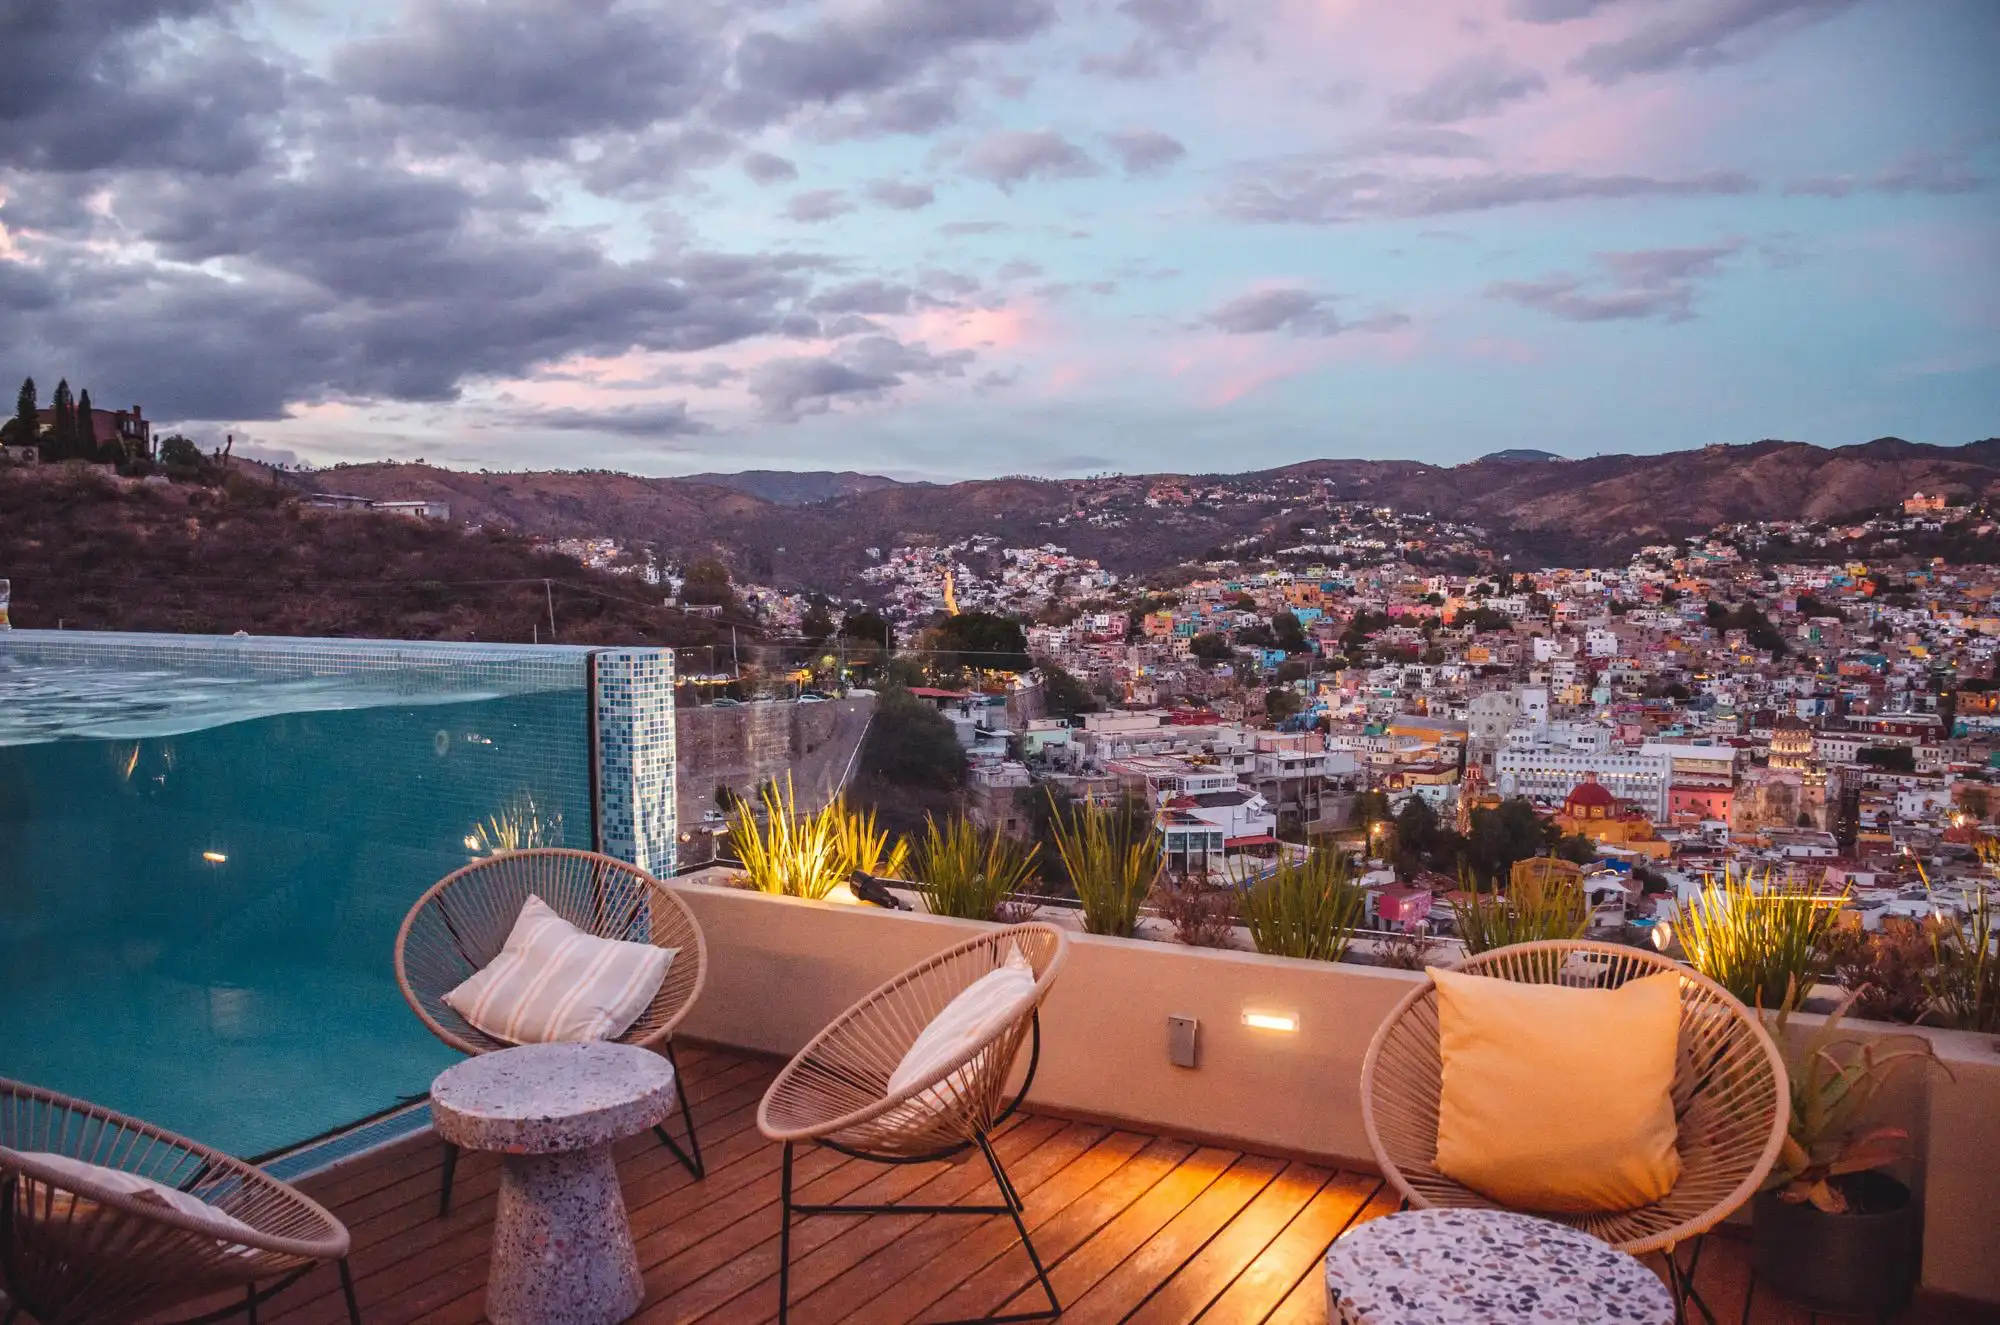
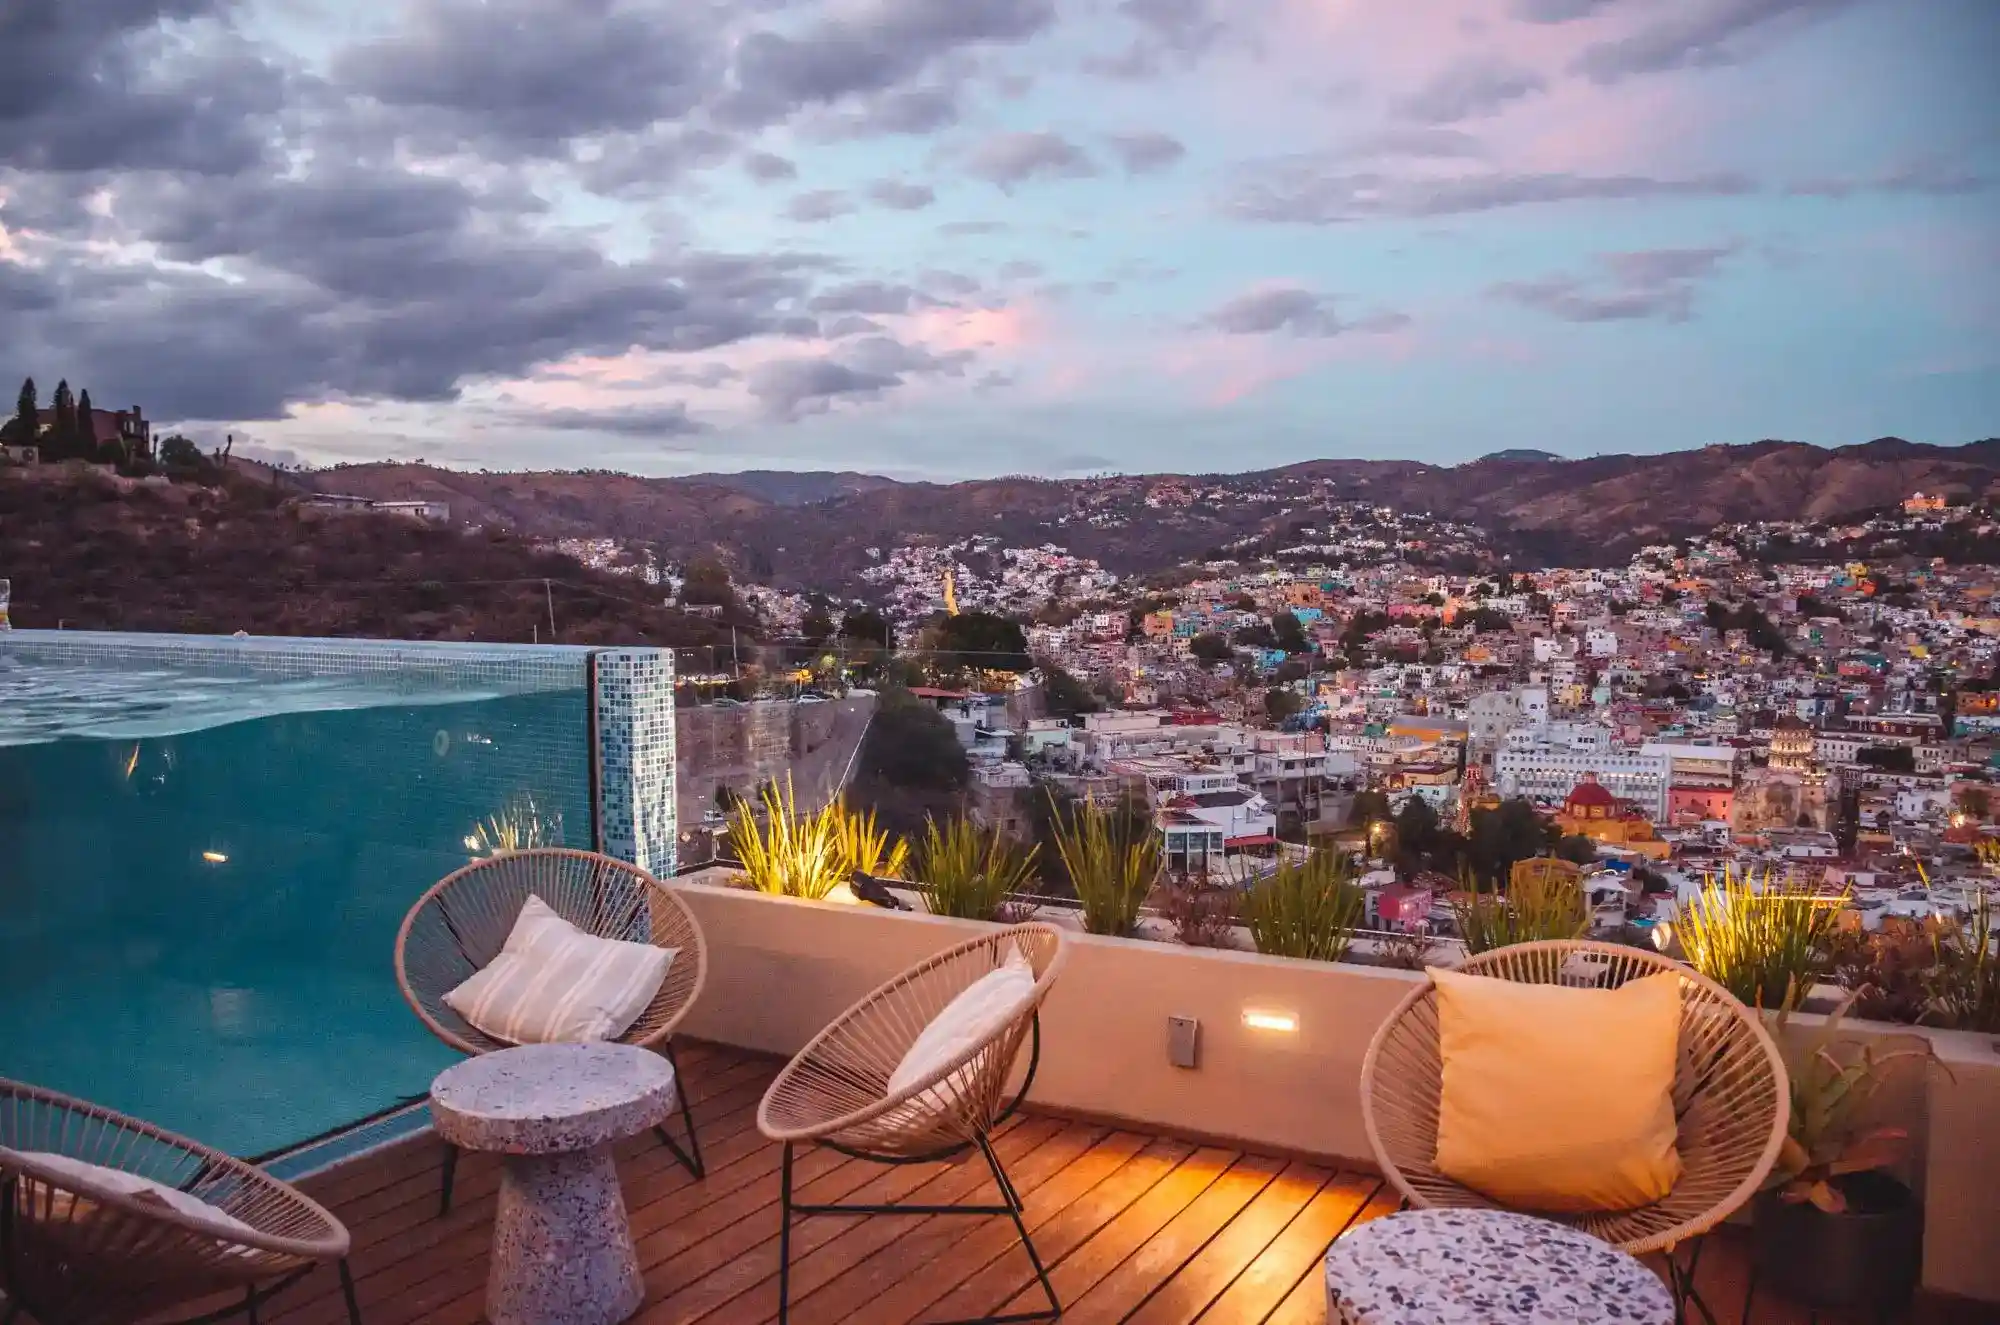
w3 css double declarations elm

diff --git a/chamber/styles/small.css b/chamber/styles/small.css
@@ -266,25 +266,6 @@ main {
     background: linear-gradient(135deg, #ffffff, #f4f0e8);
 }
 
-.weather-main {
-    display: flex;
-    align-items: baseline;
-    justify-content: space-between;
-    gap: 0.8rem;
-}
-
-.weather-temp {
-    margin: 0;
-    color: var(--green);
-    font-size: 2rem;
-    font-weight: 700;
-}
-
-.weather-note {
-    margin: 0.5rem 0 0;
-    color: var(--muted);
-}
-
 .forecast-section {
     margin-top: 1rem;
 }

diff --git a/chamber/index.html b/chamber/index.html
@@ -13,7 +13,7 @@
 
         <meta name="author" content="Paola Trevino">
 
-        <meta property="og:title" content="Guanajuato Chamber of Commerce">
+        <meta property="og:title" content="Guanajuato Chamber of Commerce | Business Community">
 
         <meta
             property="og:description"